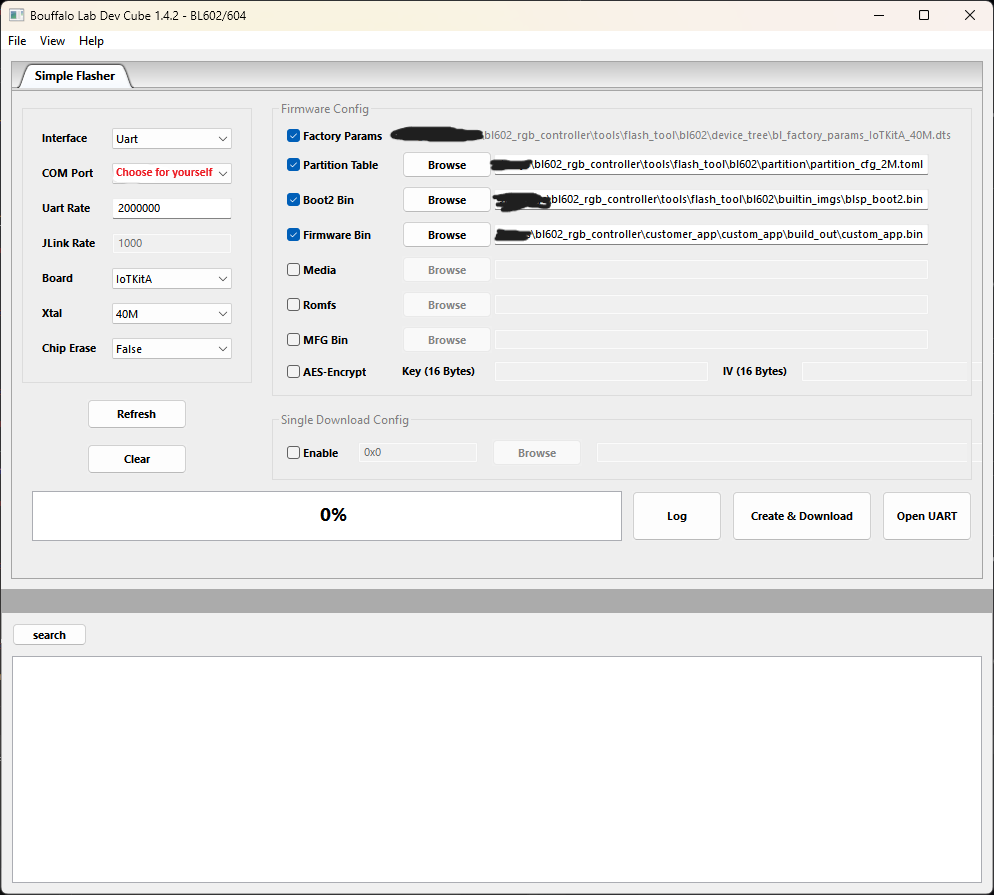
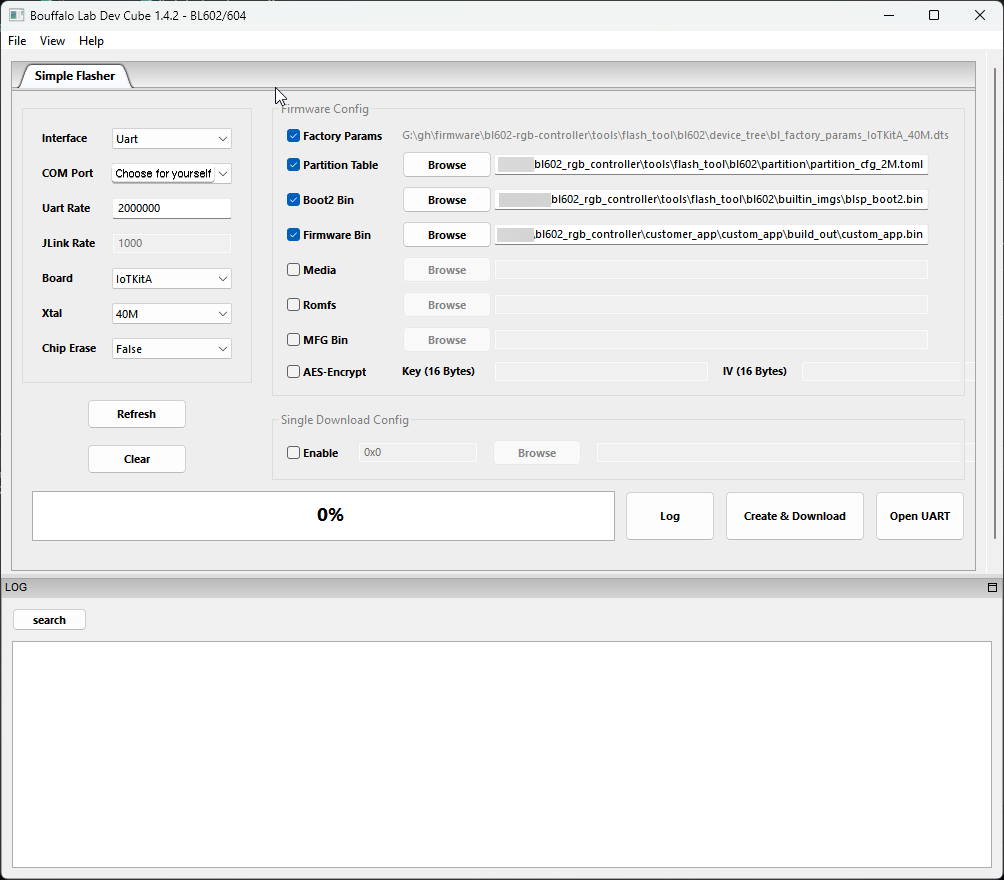
readme

diff --git a/README.md b/README.md
@@ -1,65 +1,73 @@
 ## 🔴🟢🔵 RGB/W Controller Firmware for BL602 🔴🟢🔵
-### 📸 Screenshots of WebUI
+### 📸 Screenshots of the Web UI
 <img src="doc_images/1.png" alt="Screenshot 1" width="300"> <img src="doc_images/2.png" alt="Screenshot 2" width="300">
 
 ### 📝 Features
-- Control RGB/W stripe via http / rest or udp server ([See details](server_defintions.md))
-- Pin to color mapping
-- Set device hostname (e.g. used in the router)
-- Set wifi settings
-- Creates a wifi hotspot for initial configuration
-- Updates via OTA
+- Control RGB/W strip via HTTP (REST) or UDP ([API details](server_defintions.md))
+- Flexible pin-to-color mapping
+- Configurable device hostname (e.g. visible in your router)
+- Wi-Fi configuration
+- Built-in Wi-Fi hotspot for initial setup
+- Over-the-air (OTA) firmware updates
 
 
 ## 📥 Downloading the firmware
-You can find the several firmware formats in the [releases section](https://github.com/vizualjack/bl602_rgb_controller/releases), depending on your board, firmware and the method you wanna use.<br/>
-I will provide one method for installing and updating.
+Several firmware formats are available in the [Releases](https://github.com/vizualjack/bl602_rgb_controller/releases) section, depending on your board, firmware and flashing method.
 
 ## ⚙ Installing onto your device via UART (Windows)
 📋 **Requirements**: [Downloading the firmware (.bin)](#-downloading-the-firmware)<br/>
 ### 1. 🔌 **Connecting the board**
-**Pins (+ State) you need**: BOOT(**HIGH**), RX, TX, GROUND
-#### 📱 **For these boards:** Pine64 BL602 EVB ver 1.1 / Pine64 Pinenut-01S / Boufallo Lab BL602 Dev Module
-You should find the needed information here in [this documentation](https://pine64.github.io/bl602-docs/Quickstart_Guide/connecting_the_hardware.html).<br/>
-#### 📱 **For other boards**
-Depending on the board, you should see all needed connections to the pins marked on the board itself or there is already some connector (e.g usb-c) wired on the board that you can use and a switch to toggle the boot pin state.<br/>
-Hopefully you can find a good documentation on how to find these.<br/>
-Maybe you also needed some extra devices (e.g serial to usb converter) but this varies from board to board so that's why I can't provide further informations here.
+**Required pins (and state):** BOOT (**HIGH**), RX, TX, GROUND
+#### 📱 **Pine64 BL602 EVB ver 1.1** · **Pine64 Pinenut-01S** · **Boufallo Lab BL602 Dev Module**
+Refer to the official documentation [here](https://pine64.github.io/bl602-docs/Quickstart_Guide/connecting_the_hardware.html).<br/>
+#### 📱 **Other boards**
+Pin locations are usually labeled directly on the board, or available via onboard connectors (e.g. USB-C) and boot switches.
+Depending on the board, you may also need additional hardware such as a USB-to-serial adapter.
 
-### 2. 🛠 **Setup the flash tool**
+Please consult the documentation of your specific board for details.
+
+### 2. 🛠 **Set up the flash tool**
 The flash tool can be found here: `.../this/repo/tools/flash_tool`<br/>
-This is the recommended flash configuration:<br/>
+Use the following **recommended flash configuration**:<br/>
 <img src="doc_images/flash_tool_config.png" alt="Config screenshot" width="250"><br/>
-The only setting you need to adjust is the "COM Port".<br/>
-To identify the right one I would recommend the device manager, the device should pop up under the **Ports (COM & LPT)** area.
+The only setting you need to change is the **COM Port**.<br/>
+You can find the correct port in **Device Manager**.<br/>
+The device will appear under **Ports (COM & LPT)** when connected to your PC.
 
 ### 3. 🚀 **Flashing**
-When everything is connected and the boot pin is set to high, you power up the device and press **Create & Download** button in the flash tool
+Once everything is connected and the **BOOT** pin is set to **HIGH**, power up the device and click **Create & Download** in the flash tool.
 
 
 ## 🔄 Updating the firmware
-📋 **Requirements**: [Downloading the firmware (.bin.xz)](#-downloading-the-firmware)<br/>
-If you wanna update this firmware on your device I would recommend the OTA method you can find under the **Firmware Upload** area which uses the **.bin.xz** format.
+📋 **Requirements**: [Downloading the firmware (.bin.xz)](#-downloading-the-firmware)<br/><br/>
+For firmware updates, using the **OTA method** is recommended.<br/>
+It is available under the **Firmware Upload** section in the Web UI and uses the **.bin.xz** format.
 
 
 ## 💻 Development
-⚠Whitespaces in your path / folder names could be mess this up⚠
+⚠ **Avoid whitespaces in path names. This may cause build issues**
 ### 📦 **Building the firmware**
 📋 **Requirements**: [cmake](https://cmake.org/)
-#### Windows:
+#### **Windows**
 	cd ...\this\repo\customer_app\custom_app
 	build.bat
-#### Linux / MSYS:
+#### **Linux / MSYS**
 	cd .../this/repo/customer_app/custom_app
 	./build
-📄 Output firmware file: `.../this/repo/customer_app/custom_app/build_out/custom_app.bin`
+📄 **Output firmware file**
+```
+.../this/repo/customer_app/custom_app/build_out/custom_app.bin
+```
 
 ### 📦 **Building the OTA versions of the firmware**
 📋 **Requirements**: [Python](https://www.python.org/downloads/), [Building the firmware](#-building-the-firmware)
-#### Windows:
+#### **Windows**
 	cd ...\this\repo\customer_app\custom_app
 	build_ota.bat
-#### Linux / MSYS:
+#### **Linux / MSYS**
 	cd .../this/repo/customer_app/custom_app
 	./build_ota
-📄 Output directory: `.../this/repo/customer_app/custom_app/build_out/ota/dts40M_pt2M_boot2release_c84015`
+📄 **Output directory** 
+```
+.../this/repo/customer_app/custom_app/build_out/ota/dts40M_pt2M_boot2release_c84015
+```
